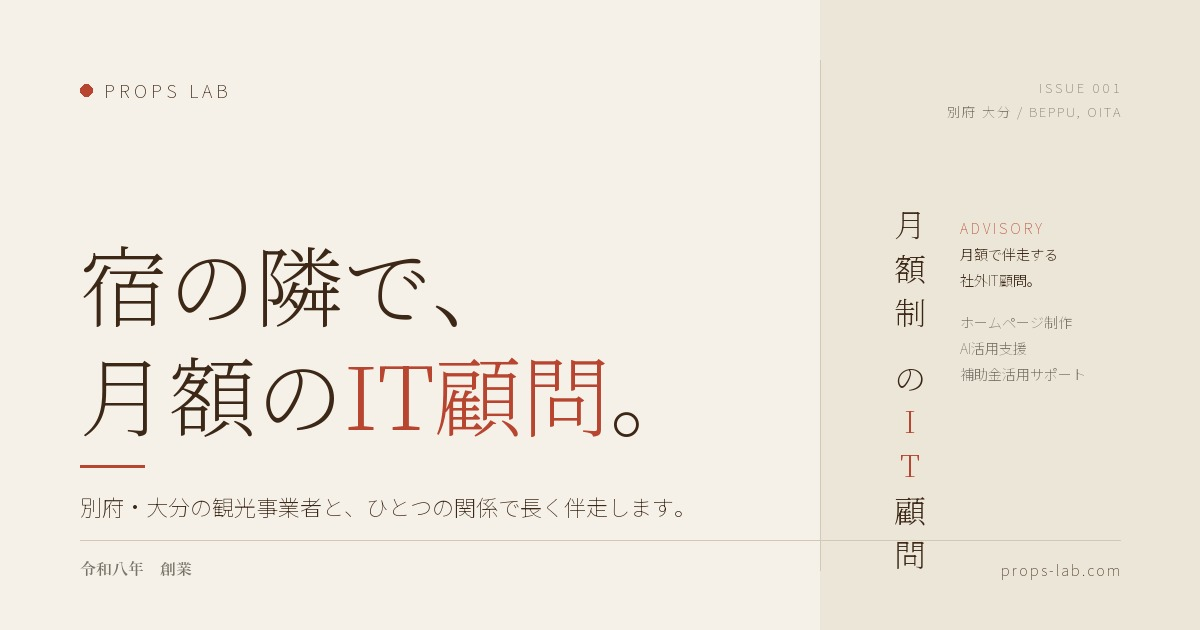
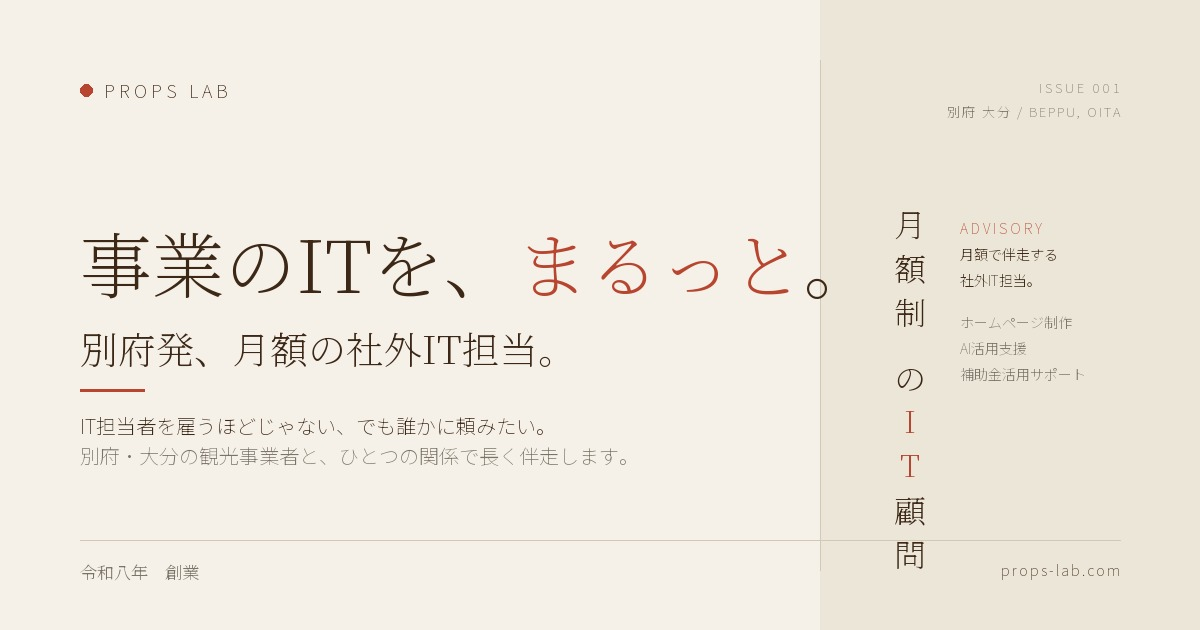
ヒーロー文言とOGP画像を「事業のITをまるっと」訴求に刷新
- index.html ヒーロー: 「別府の宿に〜」→「事業のITを、まるっと。別府発、月額の社外IT担当。」
- ヒーロー本文を痛点訴求型に: 「IT担当者を雇うほどじゃない、でも誰かに頼みたい」
- CTA行に料金行を追加: 「月額¥80,000〜／モニター¥8,000(6ヶ月限定・1〜2社)」
- OGP画像を新ヒーローに同期(まるっとを赤強調、社外IT担当に統一)
- OGP「創業」のレンダリングを Yu Mincho → Noto Serif JP に変更(可読性向上)

it-komon.netの訴求パターンを参考に、痛点+解決を明確化。

diff --git a/index.html b/index.html
@@ -211,7 +211,9 @@
   }
   .hero__lead .strong { font-weight: 700; }
 
-  .btn-row { display: flex; gap: 12px; flex-wrap: wrap; }
+  .btn-row { display: flex; gap: 12px; flex-wrap: wrap; align-items: center; }
+  .btn-row__price { font-family: var(--label); font-size: 12px; letter-spacing: .14em; color: var(--text-secondary); margin-left: 4px; }
+  @media (max-width: 720px) { .btn-row__price { width: 100%; margin-left: 0; margin-top: 6px; font-size: 11px; letter-spacing: .12em; } }
   .btn {
     display: inline-flex; align-items: center; gap: 14px;
     font-family: var(--sans);
@@ -493,18 +495,19 @@
     <p class="hero__era">令和八年 　創業</p>
 
     <h1 class="hero__title">
-      <span class="hero__title-line">別府の宿に、</span>
-      <span class="hero__title-line">月額で伴走する<span class="accent">IT顧問</span>を。</span>
+      <span class="hero__title-line">事業のITを、まるっと。</span>
+      <span class="hero__title-line">別府発、月額の<span class="accent">社外IT担当</span>。</span>
     </h1>
     <p class="hero__lead">
-      ホームページ制作から、その先の運用・改善まで。<br/>
-      <span class="strong">別府の小さな事業の『誰に聞けばいいか分からない』を、月額制で引き受けます。</span><br/>
-      社外IT担当として、ひとつの関係で長く続けます。
+      <span class="strong">IT担当者を雇うほどじゃない、でも誰かに頼みたい。</span><br/>
+      ホームページ制作から日々のIT相談まで、月額制で引き受けます。<br/>
+      別府発、九州の観光事業者と、ひとつの関係で長く続けます。
     </p>
 
     <div class="btn-row">
       <a class="btn btn--primary" href="contact.html">無料相談をする <span class="arr">→</span></a>
       <a class="btn btn--ghost" href="service.html">サービスを見る <span class="arr">→</span></a>
+      <span class="btn-row__price">月額 ¥80,000〜　／　モニター価格 ¥8,000（6ヶ月限定・1〜2社）</span>
     </div>
   </div>
 

diff --git a/scripts/generate_ogp.py b/scripts/generate_ogp.py
@@ -78,36 +78,35 @@ def main():
     draw_spaced(d, (W - 80 - pw, 104), place_text, fr_jp, TEXT_SUB, spacing=2)
 
     # ── Main headline (left zone) ────────────────────────
-    # Two lines, large serif
-    f_h1 = font(F_SERIF, 88)
-    line1 = "宿の隣で、"
-    line2 = "月額のIT顧問。"
-
+    f_h1 = font(F_SERIF, 72)
     headline_x = 80
-    headline_y1 = 218
-    headline_y2 = headline_y1 + 110
+    headline_y1 = 210
 
-    d.text((headline_x, headline_y1), line1, font=f_h1, fill=TEXT_MAIN)
-    # Draw line2 with red accent on "IT顧問"
-    # Split: "月額の" + "IT顧問" + "。"
-    parts = [
-        ("月額の", TEXT_MAIN),
-        ("IT顧問", ACCENT_RED),
-        ("。",   TEXT_MAIN),
+    # Line 1: "事業のITを、まるっと。" with red on "まるっと"
+    parts1 = [
+        ("事業のITを、", TEXT_MAIN),
+        ("まるっと",   ACCENT_RED),
+        ("。",         TEXT_MAIN),
     ]
     cx = headline_x
-    for s, color in parts:
-        d.text((cx, headline_y2), s, font=f_h1, fill=color)
+    for s, color in parts1:
+        d.text((cx, headline_y1), s, font=f_h1, fill=color)
         cx += d.textlength(s, font=f_h1)
 
-    # Short red accent rule under the headline
-    rule_y = headline_y2 + 138
+    # Line 2: subhead "別府発、月額の社外IT担当。"
+    f_h2 = font(F_SERIF, 38)
+    headline_y2 = headline_y1 + 110
+    d.text((headline_x, headline_y2), "別府発、月額の社外IT担当。", font=f_h2, fill=TEXT_MAIN)
+
+    # Short red accent rule under the headline group
+    rule_y = headline_y2 + 70
     d.line([(headline_x, rule_y), (headline_x + 64, rule_y)], fill=ACCENT_RED, width=3)
 
-    # Sub-head (Japanese, sans)
-    f_sub = font(F_SANS, 22)
-    sub_y = rule_y + 28
-    d.text((headline_x, sub_y), "別府・大分の観光事業者と、ひとつの関係で長く伴走します。", font=f_sub, fill=TEXT_MAIN)
+    # Caption (sans)
+    f_sub = font(F_SANS, 20)
+    sub_y = rule_y + 24
+    d.text((headline_x, sub_y), "IT担当者を雇うほどじゃない、でも誰かに頼みたい。", font=f_sub, fill=TEXT_MAIN)
+    d.text((headline_x, sub_y + 30), "別府・大分の観光事業者と、ひとつの関係で長く伴走します。", font=f_sub, fill=TEXT_SUB)
 
     # ── Right zone (alt band) typography ──────────────────
     rzone_x = W - 380 + 50  # 870
@@ -143,7 +142,7 @@ def main():
     captions = [
         ("ADVISORY", ACCENT_RED),
         ("月額で伴走する", TEXT_MAIN),
-        ("社外IT顧問。", TEXT_MAIN),
+        ("社外IT担当。", TEXT_MAIN),
         ("", TEXT_MAIN),
         ("ホームページ制作", TEXT_SUB),
         ("AI活用支援", TEXT_SUB),
@@ -161,10 +160,10 @@ def main():
 
     # ── Footer row ────────────────────────────────────────
     f_foot = font(F_SANS, 14)
-    f_foot_jp = font(F_MINCHO, 16)
+    f_foot_jp = font(F_SERIF, 17)
 
     # Bottom-left: era + founded
-    d.text((80, H - 70), "令和八年　創業", font=f_foot_jp, fill=TEXT_SUB)
+    d.text((80, H - 71), "令和八年　創業", font=f_foot_jp, fill=TEXT_SUB)
 
     # Bottom-right (in alt band): URL
     url = "props-lab.com"
